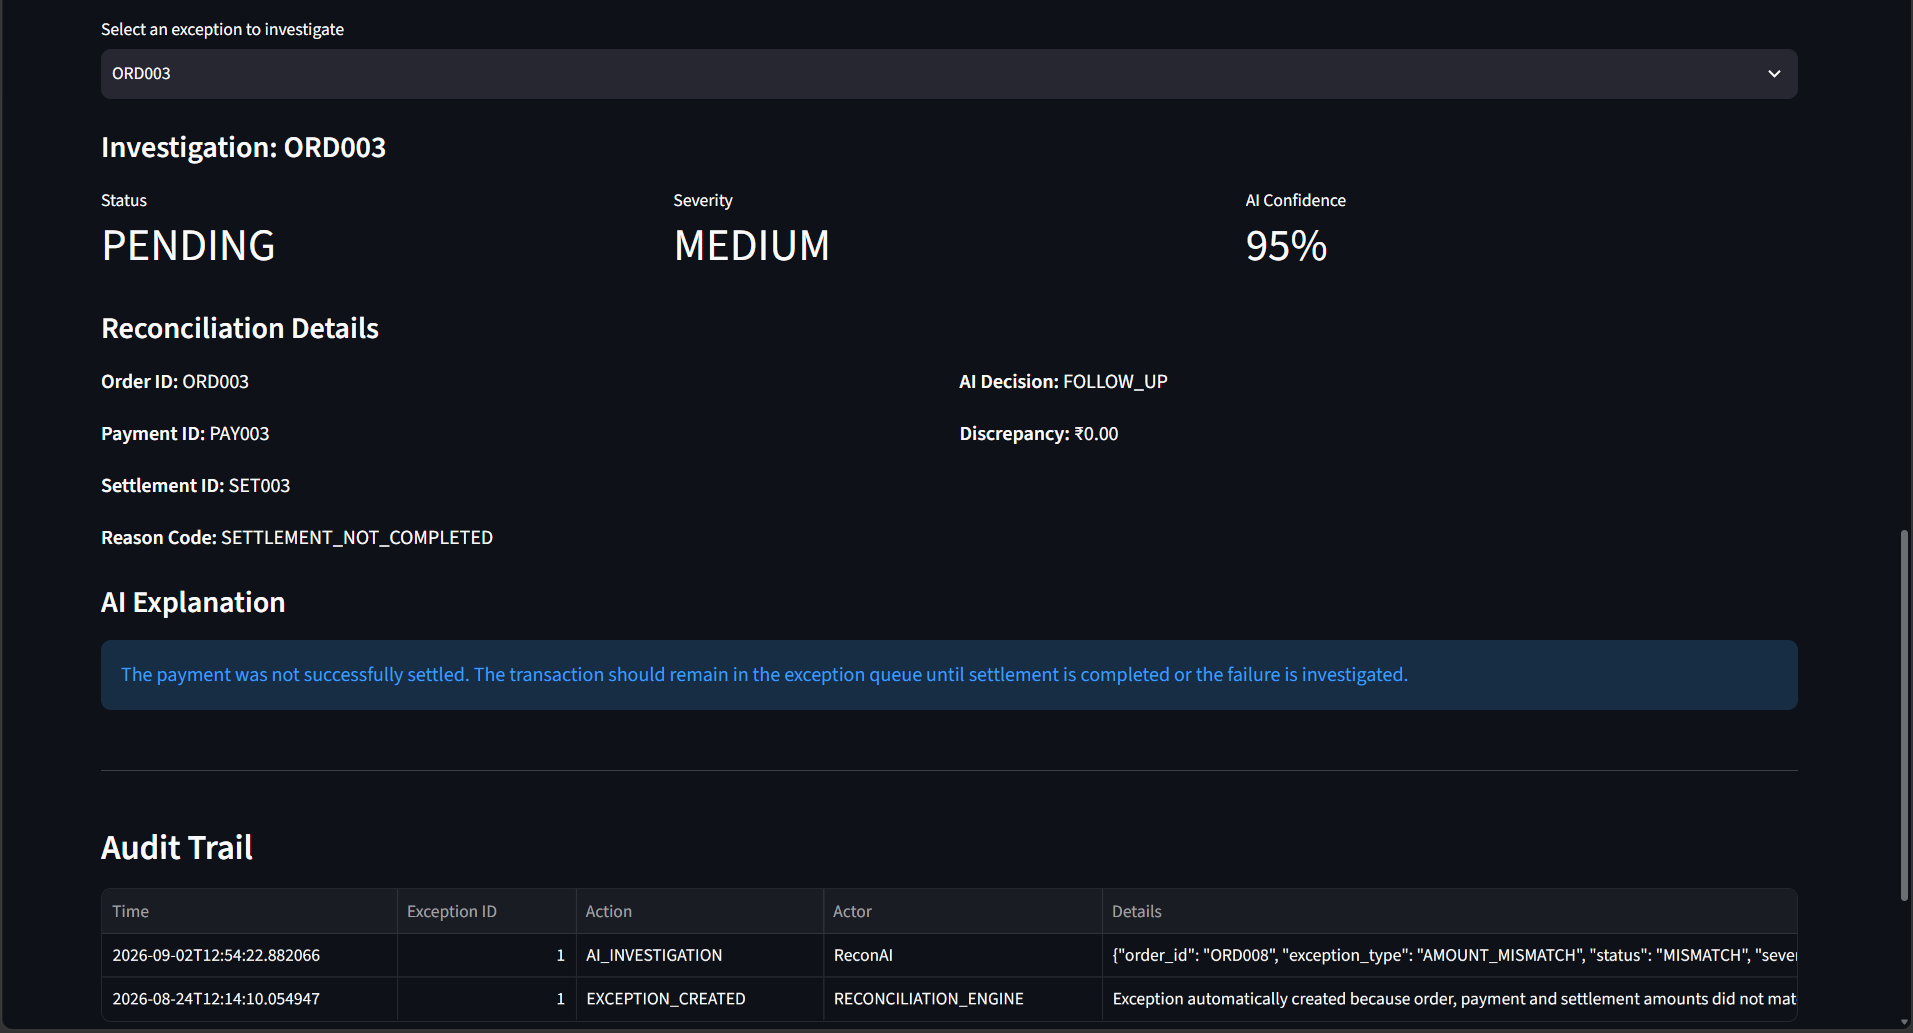
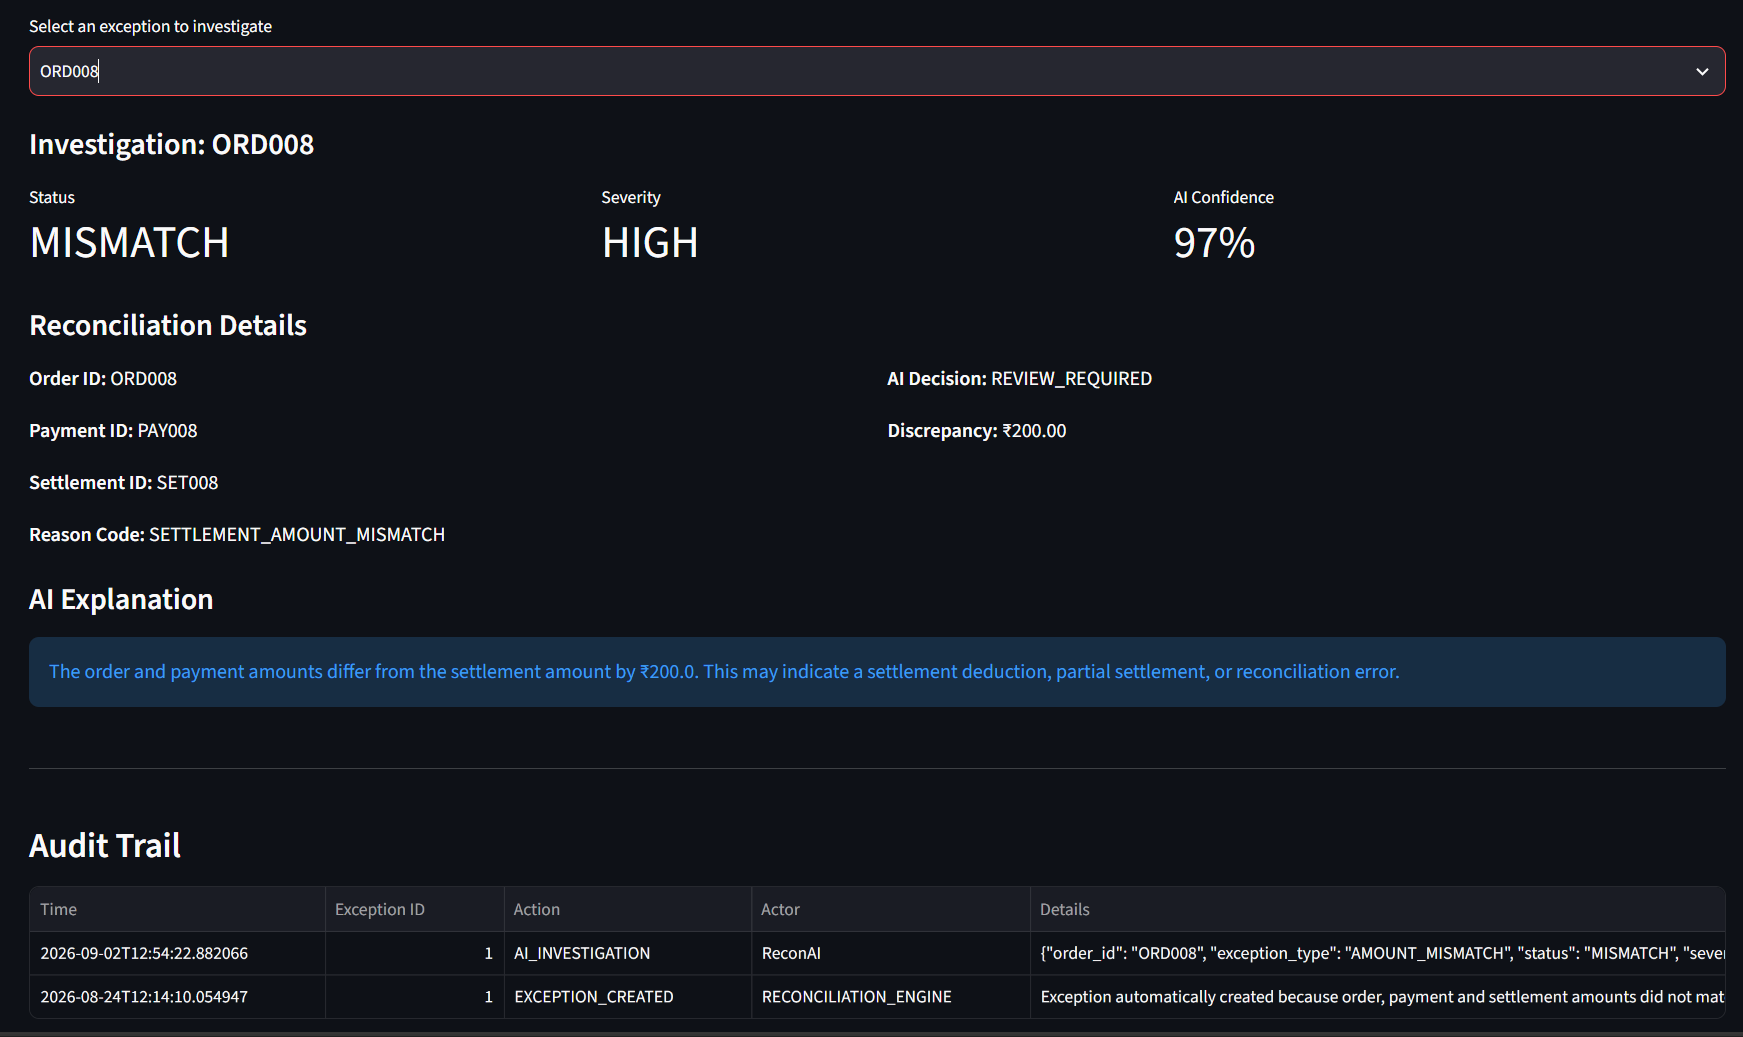
Add 60 transaction dataset

diff --git a/data/seed_data.py b/data/seed_data.py
@@ -1,0 +1,137 @@
+from datetime import datetime, timedelta
+from sqlalchemy import text
+
+from backend.database import engine
+
+
+def seed_data():
+
+    with engine.begin() as db:
+
+        base_date = datetime(2026, 9, 1)
+
+        for i in range(11, 61):
+
+            order_id = f"ORD{i:03d}"
+            payment_id = f"PAY{i:03d}"
+            settlement_id = f"SET{i:03d}"
+
+            order_amount = 1000 + (i * 100)
+
+            # Create different transaction scenarios
+            if i % 10 == 0:
+                # Amount mismatch
+                payment_amount = order_amount - 100
+                settlement_amount = payment_amount - 50
+
+                payment_status = "SUCCESS"
+                settlement_status = "SETTLED"
+
+            elif i % 7 == 0:
+                # Pending transaction
+                payment_amount = order_amount
+                settlement_amount = order_amount
+
+                payment_status = "PENDING"
+                settlement_status = "PENDING"
+
+            else:
+                # Fully matched transaction
+                payment_amount = order_amount
+                settlement_amount = order_amount
+
+                payment_status = "SUCCESS"
+                settlement_status = "SETTLED"
+
+            order_date = base_date + timedelta(days=i % 5)
+
+            db.execute(
+                text("""
+                    INSERT INTO orders (
+                        order_id,
+                        customer_name,
+                        order_amount,
+                        order_date,
+                        order_status
+                    )
+                    VALUES (
+                        :order_id,
+                        :customer_name,
+                        :order_amount,
+                        :order_date,
+                        :order_status
+                    )
+                    ON CONFLICT (order_id) DO NOTHING;
+                """),
+                {
+                    "order_id": order_id,
+                    "customer_name": f"Customer {i}",
+                    "order_amount": order_amount,
+                    "order_date": order_date,
+                    "order_status": "CONFIRMED"
+                }
+            )
+
+            db.execute(
+                text("""
+                    INSERT INTO payments (
+                        payment_id,
+                        order_id,
+                        payment_amount,
+                        payment_date,
+                        payment_status,
+                        payment_method
+                    )
+                    VALUES (
+                        :payment_id,
+                        :order_id,
+                        :payment_amount,
+                        :payment_date,
+                        :payment_status,
+                        :payment_method
+                    )
+                    ON CONFLICT (payment_id) DO NOTHING;
+                """),
+                {
+                    "payment_id": payment_id,
+                    "order_id": order_id,
+                    "payment_amount": payment_amount,
+                    "payment_date": order_date,
+                    "payment_status": payment_status,
+                    "payment_method": "CARD"
+                }
+            )
+
+            db.execute(
+                text("""
+                    INSERT INTO settlements (
+                        settlement_id,
+                        payment_id,
+                        settlement_amount,
+                        settlement_date,
+                        settlement_status
+                    )
+                    VALUES (
+                        :settlement_id,
+                        :payment_id,
+                        :settlement_amount,
+                        :settlement_date,
+                        :settlement_status
+                    )
+                    ON CONFLICT (settlement_id) DO NOTHING;
+                """),
+                {
+                    "settlement_id": settlement_id,
+                    "payment_id": payment_id,
+                    "settlement_amount": settlement_amount,
+                    "settlement_date": order_date + timedelta(days=1),
+                    "settlement_status": settlement_status
+                }
+            )
+
+    print("Synthetic data seeding completed.")
+    print("Transactions available: ORD001 to ORD060")
+
+
+if __name__ == "__main__":
+    seed_data()

diff --git a/README.md b/README.md
@@ -4,6 +4,10 @@ ReconAI is an AI-assisted financial reconciliation system built for the Razorpay
 
 It reconciles orders, payments, and settlements, detects financial exceptions, investigates suspicious cases, and maintains an audit trail for every investigation.
 
+## Dashboard
+
+![ReconAI Dashboard](docs/dashboard.png)
+
 ## Problem
 
 Financial reconciliation often requires comparing records from multiple systems.
